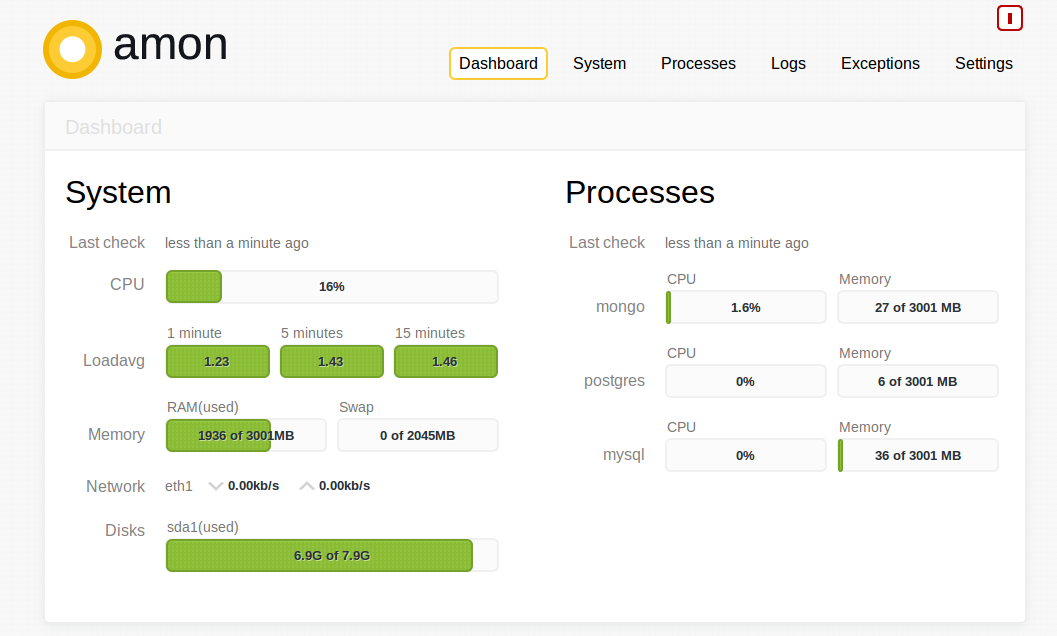
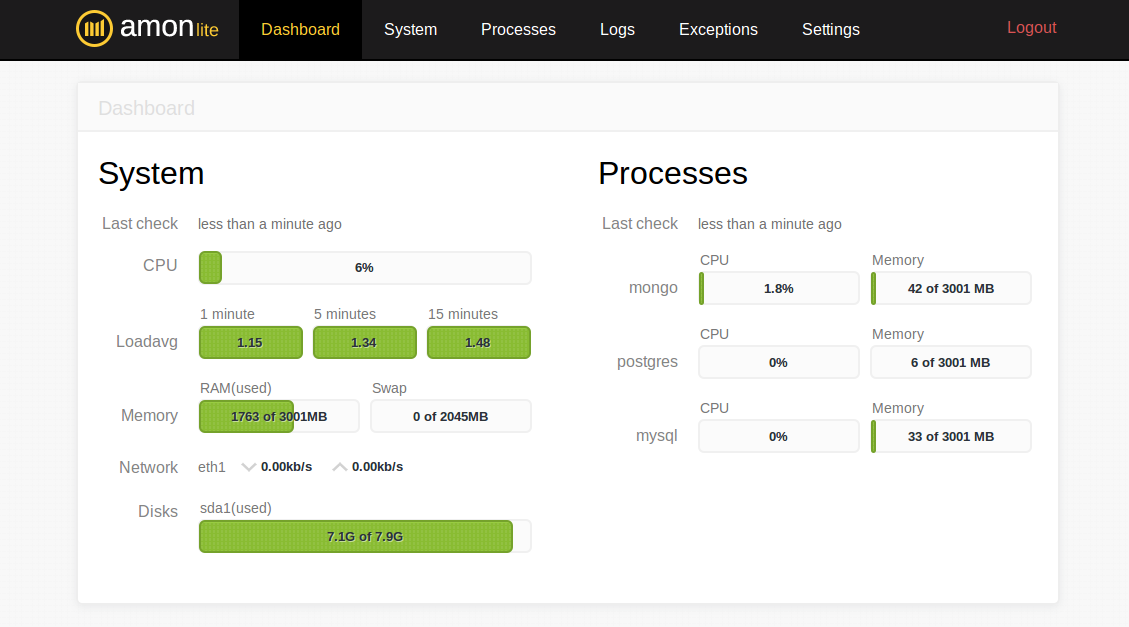
Tests updated, Preview image updated

diff --git a/tests/web/session_test.py b/tests/web/session_test.py
@@ -1,9 +1,9 @@
 #import unittest
-#from amon.web.views.base import BaseView
-#from amon.web.server import application
+#from amonlite.web.views.base import BaseView
+#from amonlite.web.server import application
 #from tornado.httpclient import HTTPRequest 
 #from nose.tools import eq_
-#from amon.backends.mongodb import MongoBackend
+#from amonlite.backends.mongodb import MongoBackend
 
 #mongo = MongoBackend()
 #mongo.database = 'amon'

diff --git a/tests/system/daemon_test.py b/tests/system/daemon_test.py
@@ -1,7 +1,7 @@
 # TODO Change this file every time there is a change in amond
-from amon.core import settings
-from amon.system.runner import runner
-from amon.backends.mongodb import backend
+from amonlite.core import settings
+from amonlite.system.runner import runner
+from amonlite.backends.mongodb import backend
 import unittest
 from nose.tools import eq_
 import sys

diff --git a/tests/backends/mongodb_test.py b/tests/backends/mongodb_test.py
@@ -4,8 +4,8 @@ import unittest
 from pymongo import Connection
 from pymongo.collection import Collection
 from pymongo.database import Database
-from amon.backends.mongodb import backend
-from amon.core import settings
+from amonlite.backends.mongodb import backend
+from amonlite.core import settings
 
 class TestMongoBackend(unittest.TestCase):
     

diff --git a/tests/web/app_test.py b/tests/web/app_test.py
@@ -1,7 +1,7 @@
 from nose.tools import eq_
 from tornado.testing import AsyncHTTPTestCase
-from amon.web.server import application
-from amon.core import settings
+from amonlite.web.server import application
+from amonlite.core import settings
 
 if settings.ACL == 'False':
     status_code = 200

diff --git a/tests/system/collector_test.py b/tests/system/collector_test.py
@@ -1,4 +1,4 @@
-from amon.system.collector import system_info_collector, process_info_collector
+from amonlite.system.collector import system_info_collector, process_info_collector
 from nose.tools import eq_, assert_not_equal
 import sys
 

diff --git a/tests/api/log_test.py b/tests/api/log_test.py
@@ -3,7 +3,7 @@ os.environ['AMON_ENV'] = 'test' # Switches the database to amon_test.
 
 from nose.tools import eq_
 import unittest
-from amon.api import log
+from amonlite.api import log
 
 
 class TestLoggingApi(unittest.TestCase):

diff --git a/tests/api/exceptions_test.py b/tests/api/exceptions_test.py
@@ -1,6 +1,6 @@
 from nose.tools import eq_
 import unittest
-from amon.api import exception
+from amonlite.api import exception
 from hashlib import md5
 
 class TestExceptionApi(unittest.TestCase):

diff --git a/tests/web/template_filters_test.py b/tests/web/template_filters_test.py
@@ -1,5 +1,5 @@
 import unittest
-from amon.web.template import *
+from amonlite.web.template import *
 from nose.tools import eq_
 
 class TestTemplateFilters(unittest.TestCase):

diff --git a/tests/api/models_test.py b/tests/api/models_test.py
@@ -1,5 +1,5 @@
 import unittest
-from amon.api.models import (
+from amonlite.api.models import (
     LogsAPIModel,
     ExceptionAPIModel,
     CommonAPIModel

diff --git a/tests/web/models_test.py b/tests/web/models_test.py
@@ -1,5 +1,5 @@
 import unittest
-from amon.web.models import (
+from amonlite.web.models import (
     SystemModel,
     ProcessModel,
     LogModel,

diff --git a/tests/utils/dates_test.py b/tests/utils/dates_test.py
@@ -1,4 +1,4 @@
-from amon.utils.dates import *
+from amonlite.utils.dates import *
 from nose.tools import eq_
 import datetime
 import pytz

diff --git a/tests/system/utils_test.py b/tests/system/utils_test.py
@@ -1,4 +1,4 @@
-from amon.system.utils import *
+from amonlite.system.utils import *
 from nose.plugins.skip import SkipTest
 import sys
 
